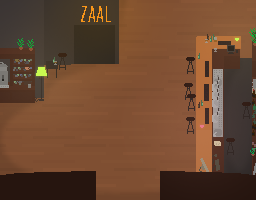
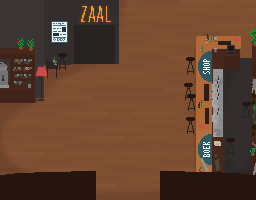
links and improved

diff --git a/data.js b/data.js
@@ -141,7 +141,7 @@ module.exports.ROOMS = {
         spawn: [72, 90, 173, 152],
         areaColors: {
             //h will be replaced by #
-            hff00ff: { cmd: "enter", room: "dBsBar", label: "Bar", point: [247, 136], enterPoint: [94, 74], obstacle: false },
+            hed008c: { cmd: "enter", room: "dBsBar", label: "Bar", point: [247, 136], enterPoint: [94, 74], obstacle: false },
         },
         things: {
 
@@ -161,6 +161,10 @@ module.exports.ROOMS = {
         areaColors: {
             //h will be replaced by #
             hff00ff: { cmd: "enter", room: "dBsZaal", label: "Zaal", point: [94, 64], enterPoint: [234, 136], obstacle: false },
+            h00ff00: { cmd: "text", url: "https://shop.dbstudio.nl/", label: "dBs Shop", txt: "Voor alle dBs merchandise, of zo een heerlijk drankje!\n\nKlik of Tik op dit bericht om de winkel te bezoeken.", align: "center", lines: 4, point: [189,66] },
+            hff0000: { cmd: "text", url: "https://portal.dbstudio.nl/", label: "Reserveringen", txt: "Wil je komen repeteren in onze toffe oefenstudios?\n\nKlik of Tik op dit bericht.", align: "center", lines: 4, point: [189,149] },
+            h0000ff: { cmd: "text", url: "https://www.dbstudio.nl/concerten/", label: "Programma", txt: "Klik of Tik op dit bericht om te kijken wat voor bands of evenementen er aan komen!", align: "center", lines: 3, point: [59,66] },
+
         },
         things: {
 

diff --git a/public/index.html b/public/index.html
@@ -61,7 +61,7 @@
         </div>
         <div id="video-container" style="display: none;">
             <div class="content-top">
-                <iframe id="yt_video" width="62%" height="100%" frameborder="0"></iframe>
+                <iframe id="yt_video" width="62%" height="100%" frameborder="0" allowfullscreen></iframe>
             </div>
         </div>
 
